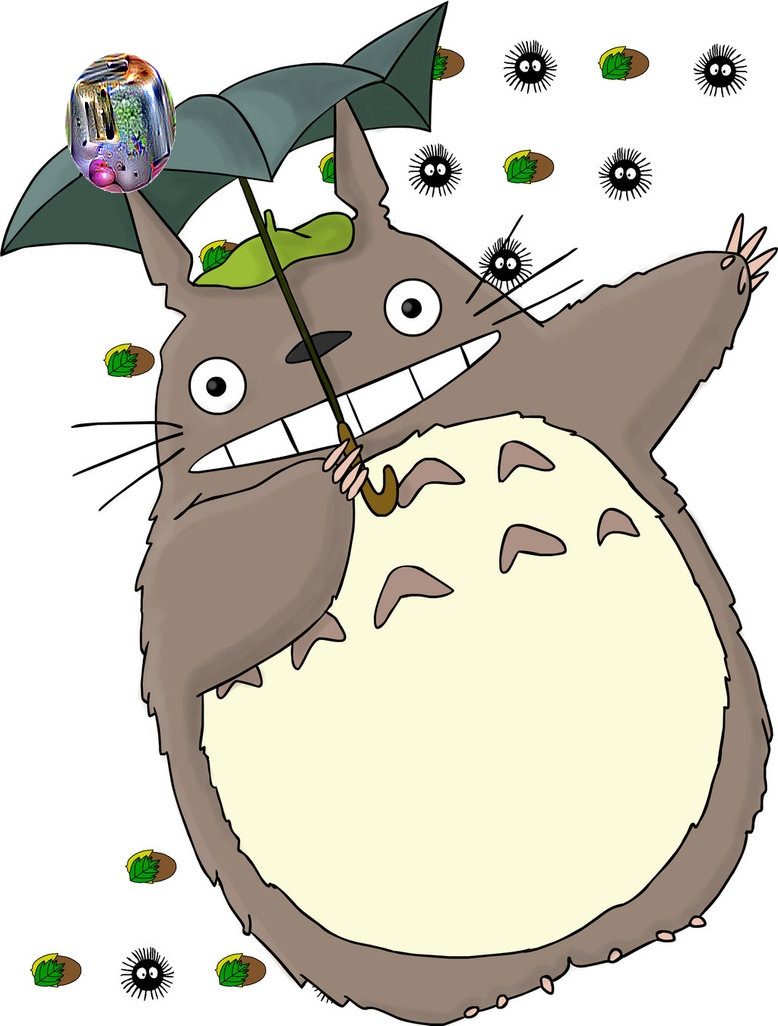
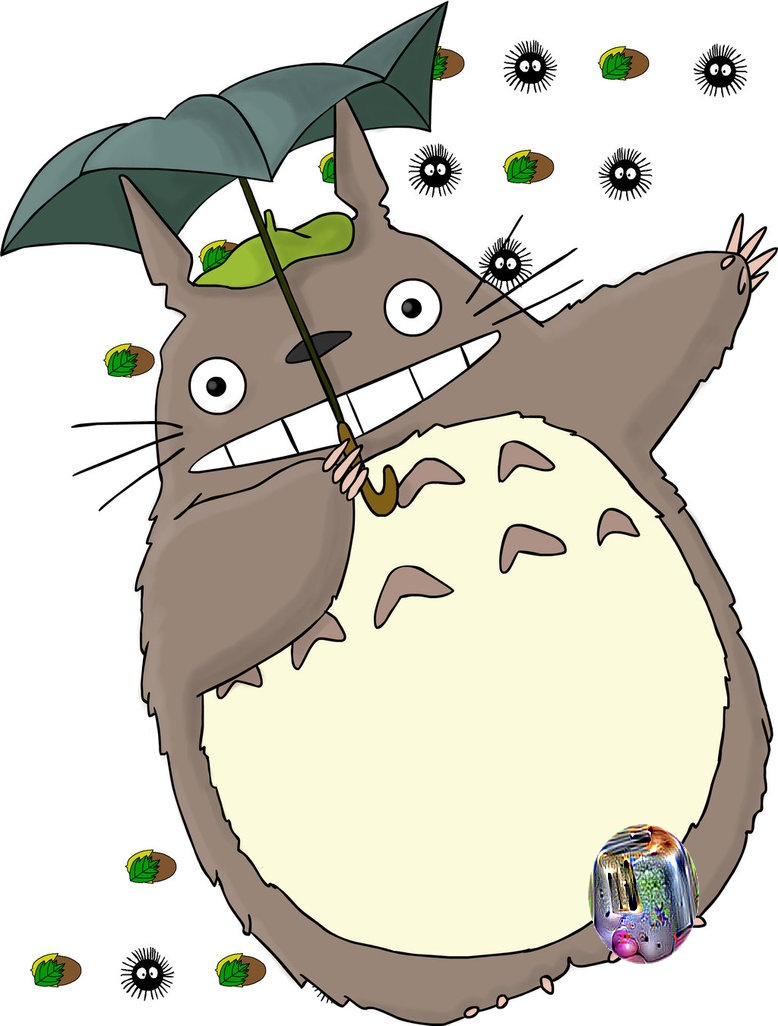
update adversarial patch

Changed region(s): [[0.0617, 0.0312, 0.2468, 0.1871], [0.7404, 0.7797, 0.8946, 0.9357]]

diff --git a/Advesarial Patch/mainapp.py b/Advesarial Patch/mainapp.py
@@ -8,6 +8,23 @@ import numpy as np
 from keras.applications.densenet import preprocess_input
 from functools import wraps, update_wrapper
 from datetime import datetime
+from flask_cors import CORS
+
+
+class InvalidUsage(Exception):
+    status_code = 400
+
+    def __init__(self, message, status_code=None, payload=None):
+        Exception.__init__(self)
+        self.message = message
+        if status_code is not None:
+            self.status_code = status_code
+        self.payload = payload
+
+    def to_dict(self):
+        rv = dict(self.payload or ())
+        rv['message'] = self.message
+        return rv
 
 
 def nocache(view):
@@ -30,6 +47,7 @@ ALLOWED_EXTENSIONS = ['txt', 'pdf', 'png', 'jpg', 'jpeg', 'gif']
 app = Flask(__name__)
 app.config['MAX_CONTENT_LENGTH'] = 16 * 1024 * 1024
 app.config['UPLOAD_FOLDER'] = UPLOAD_FOLDER
+CORS(app)
 
 
 def allowed_file(filename):
@@ -41,51 +59,50 @@ def allowed_file(filename):
 @nocache
 def get_image():
     if request.method == 'POST':
-        # check if the post request has the file part
-        if 'file' not in request.files:
-            flash('No file part')
-            return redirect(request.url)
-        file = request.files['file']
 
-        # if user does not select file, browser also
-        # submit an empty part without filename
-        if file.filename == '':
-            flash('No selected file')
-            return redirect(request.url)
-        if file and allowed_file(file.filename):
-            filename = secure_filename(file.filename)
+        potency = request.form['potency']
+        if potency == 'high':
 
-            # Convert FileStorage object into cv2 image
-            # https://stackoverflow.com/questions/47515243/reading-image-file-file-storage-object-using-cv2
-            filestr = file.read()
-            npimg = np.fromstring(filestr, np.uint8)
-            original_img = cv2.imdecode(npimg, cv2.IMREAD_COLOR)
-            print("npimg", original_img.shape, type(original_img))
+            # check if the post request has the file part
+            if 'file' not in request.files:
+                flash('No file part')
+                return redirect(request.url)
+            file = request.files['file']
 
-            # Test image
-            # original_img = cv2.imread("gibbon.jpg")
-            # print("gibbon", original_img.shape, type(original_img))
+            # if user does not select file, browser also
+            # submit an empty part without filename
+            if file.filename == '':
+                flash('No selected file')
+                return redirect(request.url)
+            if file and allowed_file(file.filename):
+                filename = secure_filename(file.filename)
 
-            # Apply adversarial patch
-            patch = cv2.imread("patch.png", -1)
-            processed_img = patch_attack(original_img, patch)
-            cv2.imwrite(filename, processed_img)
+                # Convert FileStorage object into cv2 image
+                # https://stackoverflow.com/questions/47515243/reading-image-file-file-storage-object-using-cv2
+                filestr = file.read()
+                npimg = np.fromstring(filestr, np.uint8)
+                original_img = cv2.imdecode(npimg, cv2.IMREAD_COLOR)
+                print("npimg", original_img.shape, type(original_img))
 
-            # cv2.imshow('image', processed_img)
-            # cv2.waitKey(0)
-            # cv2.destroyAllWindows()
+                # Test image
+                # original_img = cv2.imread("gibbon.jpg")
+                # print("gibbon", original_img.shape, type(original_img))
 
-            return send_from_directory(app.config['UPLOAD_FOLDER'],filename)
+                # Apply adversarial patch
+                patch = cv2.imread("patch.png", -1)
+                processed_img = patch_attack(original_img, patch)
+                cv2.imwrite(filename, processed_img)
 
-    return '''
-        <!doctype html>
-        <title>Upload new File</title>
-        <h1>Upload new File</h1>
-        <form method=post enctype=multipart/form-data>
-          <input type=file name=file>
-          <input type=submit value=Upload>
-        </form>
-        '''
+                # cv2.imshow('image', processed_img)
+                # cv2.waitKey(0)
+                # cv2.destroyAllWindows()
+
+                return send_from_directory(app.config['UPLOAD_FOLDER'],filename)
+        # potency == 'low':
+        else:
+
+    # response.status_code = 400
+    raise InvalidUsage('Error', status_code=400)
 
 @app.route("/")
 def index():

diff --git a/Advesarial Patch/densenet_attack.py b/Advesarial Patch/densenet_attack.py
@@ -4,31 +4,53 @@ from keras.applications.densenet import DenseNet201, preprocess_input, decode_pr
 from keras.preprocessing import image
 from keras.models import Model
 from patch import patch_attack
+import csv
+
 
 base_model = DenseNet201(include_top=True, weights='imagenet', input_tensor=None, input_shape=None, pooling=None, classes=1000)
 
-img_path = "gibbon.jpg"
-img = image.load_img(img_path, target_size=(224, 224))
-x = image.img_to_array(img)
-x = np.expand_dims(x, axis=0)
-x = preprocess_input(x)
 
-original_img = cv2.imread("gibbon.jpg")
-patch = cv2.imread("patch.png", -1)
+def attack(raw_image_path):
+    """Attack"""
+    image_path = 'images/' + raw_image_path
+    patch_path = 'images/patch.png'
 
-# cv2.imshow('image', patch)
-# cv2.waitKey(0)
-# cv2.destroyAllWindows()
+    img = image.load_img(image_path, target_size=(224, 224))
+    x = image.img_to_array(img)
+    x = np.expand_dims(x, axis=0)
+    x = preprocess_input(x)
 
-x_pos = patch_attack(original_img, patch)
+    # original image for patching
+    original_img = cv2.imread(image_path)
+    patch = cv2.imread(patch_path, -1)
 
+    # cv2.imshow('image', patch)
+    # cv2.waitKey(0)
+    # cv2.destroyAllWindows()
 
+    # patch attack original image
+    x_pos = patch_attack(original_img, patch)
+    x_pos = cv2.resize(x_pos, (224,224))
+    x_pos = x_pos[::-1].astype(np.float32)
+    x_pos = np.expand_dims(x_pos, axis=0)
+    x_pos = preprocess_input(x_pos)
 
-x_pos = np.expand_dims(x_pos, axis=0)
-x_pos = preprocess_input(x_pos)
+    pred = base_model.predict(x)
+    pred_pos = base_model.predict(x_pos)
 
-pred = base_model.predict(x)
-pred_pos = base_model.predict(x_pos)
+    original = decode_predictions(pred, top=3)[0][0]
+    adversarial = decode_predictions(pred_pos, top=3)[0][0]
 
-print("Un-poisoned image: {}".format(decode_predictions(pred, top=3)[0]))
-print("Advserial image: {}".format(decode_predictions(pred_pos,top=3)[0]))
+    o_pred = original[2]
+    o_label = original[1]
+    a_pred = adversarial[2]
+    a_label = adversarial[1]
+
+    with open('results.csv', 'a') as f:
+        writer = csv.writer(f)
+        writer.writerow([raw_image_path, o_pred, o_label, a_pred, a_label])
+
+    print("Original:", o_pred, o_label)
+    print("Adversarial:", a_pred, a_label)
+
+    return

diff --git a/Advesarial Patch/patch.py b/Advesarial Patch/patch.py
@@ -3,9 +3,9 @@ import cv2
 
 def patch_attack(original_img,patch,resize=False):
 	"""
-	Perform an adversarial patch black box attack on a neural network
+	Patch performs an advserial patch black box attack on a neural network
 	"""
-	print("SIZES", original_img.shape) # (2308,3468,3) GIBBON
+	print("Initial shape:", original_img.shape) # (2308,3468,3) GIBBON
 	# (1026,778,3) TOTORO
 
 	h, w = original_img.shape[:2]
@@ -15,18 +15,19 @@ def patch_attack(original_img,patch,resize=False):
 	patch = cv2.resize(patch, dsize=(size, size), interpolation=cv2.INTER_CUBIC)
 	print("SIZES", patch.shape) # (662,838,4)
 
-	x_offset = 500
-	y_offset = 500
+	x_offset = w - size - 50
+	y_offset = h - size - 50
 
 	y1, y2 = y_offset, y_offset + patch.shape[0]
-	print("y1, y2", y1, y2)  # (50,712)
-
+	print("y1, y2", y1, y2) #(50,712) # diff: 155
 	x1, x2 = x_offset, x_offset + patch.shape[1]
-	print("x1, x2", x1, x2)  # (50,888)
+	print("x1, x2", x1, x2) #(50,888) # diff: 155
 
 	assert patch.shape[2] == 4, "Make sure you use cv2.imread('patch.png',-1)"
+	# alpha_s is a one-hot vector
 	alpha_s = patch[:, :, 3] / 255.0
 	alpha_l = 1.0 - alpha_s
+
 	print(original_img.shape)  #(1026,778,3)
 	print("A", patch[:,:,:].shape)  #(662, 838, 4)
 	print("B", original_img[y1:y2, x1:x2, :].shape)  #(662, 728, 3)
@@ -37,7 +38,7 @@ def patch_attack(original_img,patch,resize=False):
 
 	# if resize != False : original_img = cv2.resize(original_img, resize)
 	# x_pos = original_img[::-1].astype(np.float32)
-
+	print("Final shape:", original_img.shape)
 	return original_img
 
 

diff --git a/Advesarial Patch/analysis.py b/Advesarial Patch/analysis.py
@@ -1,0 +1,32 @@
+from densenet_attack import attack
+
+
+img = [
+    'gibbon.jpg',
+    'cat.jpg',
+    'dog.jpg',
+    'pig.jpg',
+    'toaster.jpg',
+    'chair.jpg',
+    'table.jpg',
+    'tree.jpg',
+    'flower.jpg',
+    'bottle.jpg',
+    'fan.jpg',
+    'bulb.jpg',
+    'sign.jpg',
+    'cake.jpg',
+    'bread.jpg',
+    'building.jpg',
+    'eiffel.jpg',
+    'drone.jpg',
+    'shirt.jpg',
+    'belt.jpg',
+    'boots.jpg',
+    'skirt.jpg',
+    'cow.jpg',
+    ]
+
+for i, j in enumerate(img):
+    print(i)
+    attack(j)

diff --git a/Universal adversary/densenet.py b/Universal adversary/densenet.py
@@ -8,6 +8,8 @@ from universal_perturb import rand_other,fast_signed_gradient
 base_model = DenseNet201(include_top=True, weights='imagenet', input_tensor=None, input_shape=None, pooling=None, classes=1000)
 
 img_path = "images/gibbon.jpg"
+
+def
 img_orginal = image.load_img(img_path)
 img = image.load_img(img_path, target_size=(224, 224))
 x_org = image.img_to_array(img_orginal)
